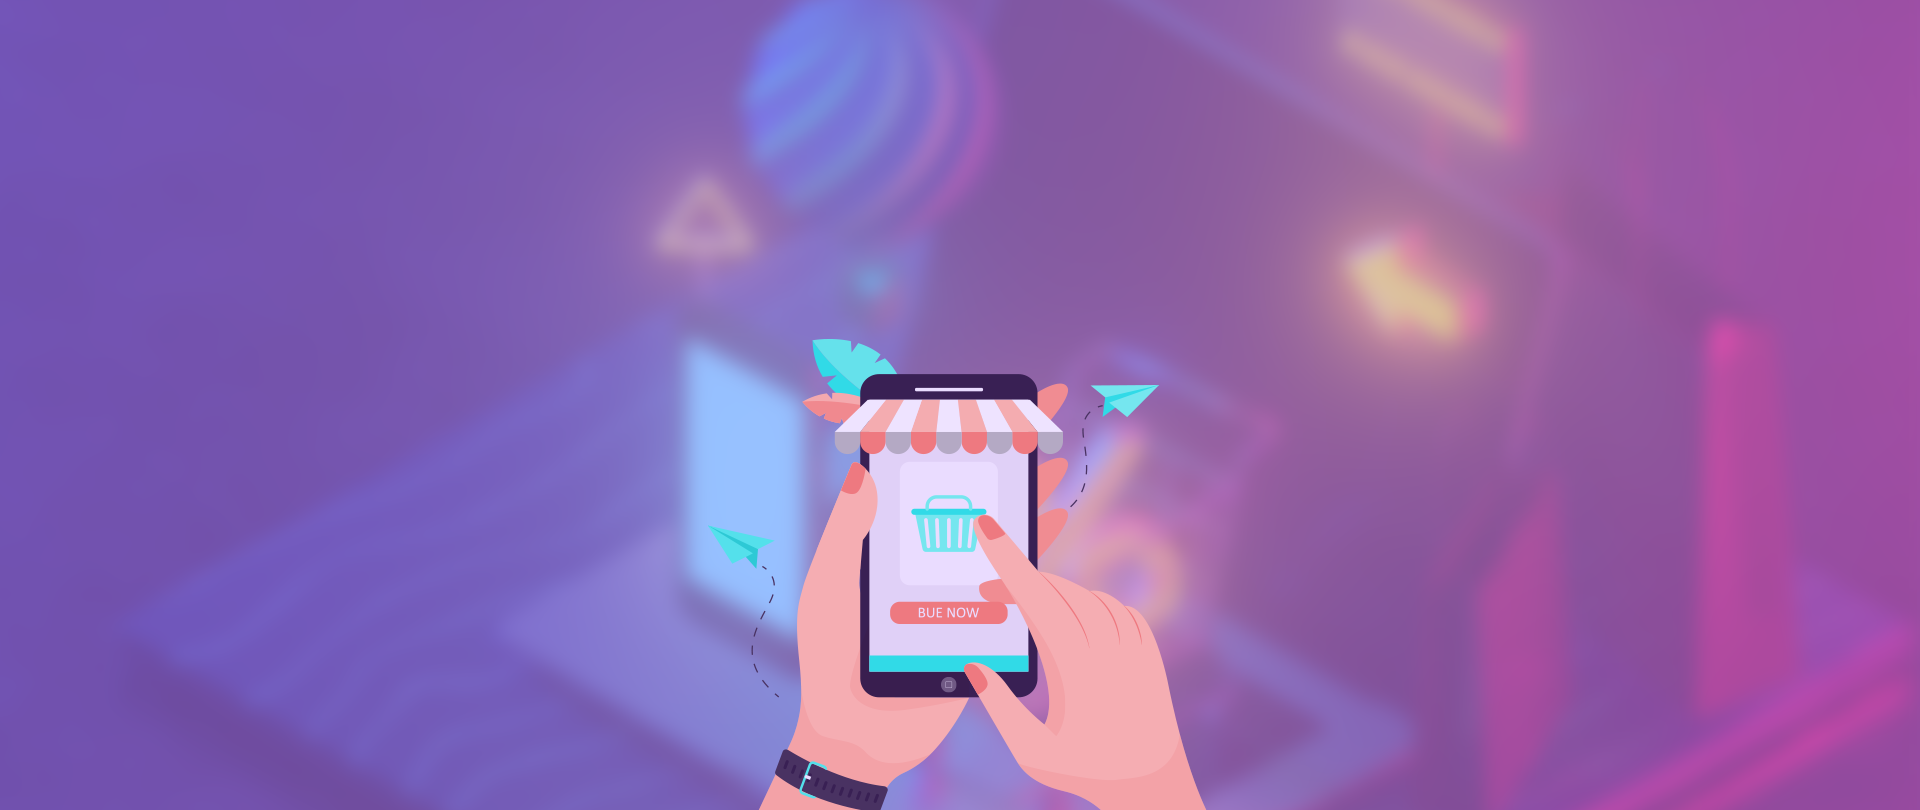
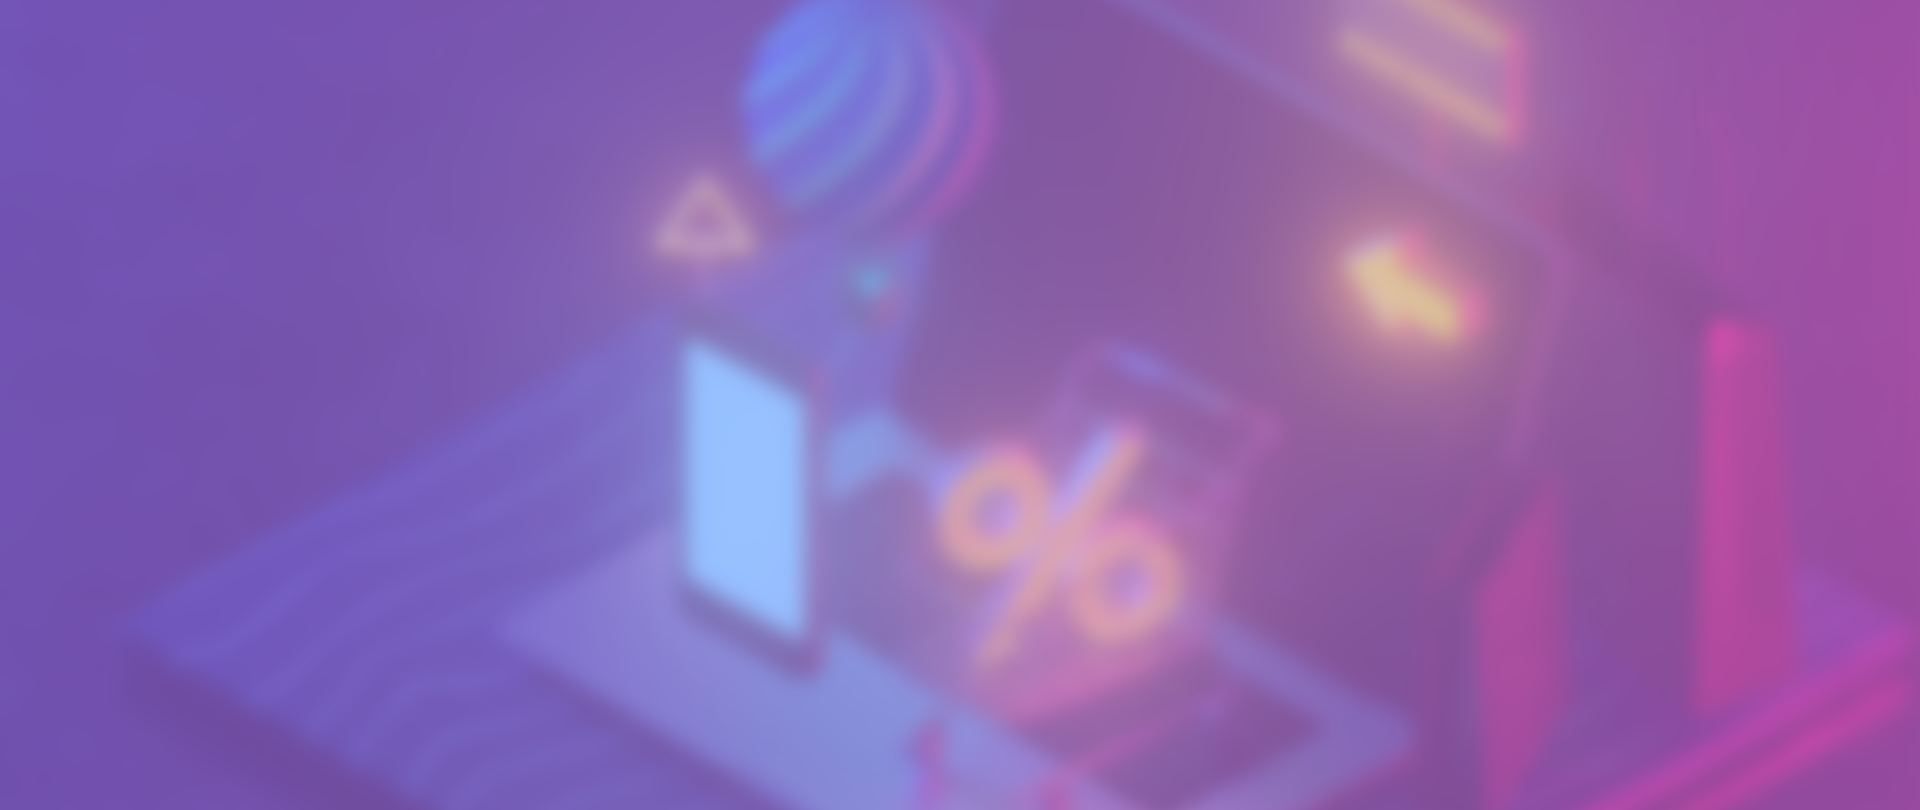
finalizado estilos

Changed region(s): [[0.375, 0.4012, 0.625, 1.0]]

diff --git a/src/styles.tsx b/src/styles.tsx
@@ -1,5 +1,16 @@
-import BackgroundImage from './assets/background.png';
-
+import BackgroundImage from './assets/bg.png';
+import phoneImage from './assets/celular.png';
+const center = {
+  display: 'grid',
+  justifyContent: 'center',
+  padding: 'auto',
+  paddingTop: '2rem'
+}
+const imagePosition = {
+  backgroundRepeat: 'no-repeat',
+  backgroundSize: 'auto auto',
+  backgroundPosition:' center center',
+}
 export const styles = {
   container: {
     width:'100%',
@@ -10,17 +21,21 @@ export const styles = {
   },
   background:{
     width:'100%',
-    height: '50rem',
+    height: '100%',
     backgroundImage:`url(${BackgroundImage})`,
-    backgroundRepeat: 'no-repeat',
-    backgroundSize: 'auto auto',
-    backgroundPosition:' center center',
+    ...imagePosition,
+    
+  },
+  ilustrationPhone:{
+    ...center,
+    width:'100%',
+    height: '25em',
+    backgroundImage:`url(${phoneImage})`,
+    ...imagePosition,
+    marginTop:'1.5em',
   },
   description: {
-    display: 'grid',
-    justifyContent: 'center',
-    padding: 'auto',
-    paddingTop: '2rem',
+    ...center,
   },
   logo:{
     width: '100%',
@@ -28,12 +43,9 @@ export const styles = {
     paddingRight: 'auto',
   },
   form:{
-    width:'30%',
+    width:'50%',
     height: '50%',
     marginRight: 'auto' ,
     marginLeft: 'auto' ,
   }
 }
-
-
-

diff --git a/src/components/form/index.tsx b/src/components/form/index.tsx
@@ -1,20 +1,22 @@
 import React from 'react';
 import { Button } from '../button';
 import { Input } from '../input';
+import { Select } from '../select';
+import { styles } from './styles';
 
 export function Form (){
   return (
-    <div>
+    <div style={styles.container}>
       <form>
-        <Input text='Nome' id="nome" type="text" ></Input>
+        <Input text='Nome' id="nome" type="text" maxLength={60}></Input>
         <Input text='E-mail' id="email" type="text"></Input>
-        <Input text='WhatsApp' id="contato" type="tel"></Input> 
+        <Input text='WhatsApp' id="contato" type="tel"></Input>
 
-        <Input 
+        <Select 
           text='Eu autorizo um consultor da Smile entrar em contato via WhatsApp'
-          id="authorizate"
-          type="checkbox">
-        </Input>
+          id='authorizate'
+          type='checkbox'>
+        </Select>
 
         
       </form>

diff --git a/src/components/select/styles.tsx b/src/components/select/styles.tsx
@@ -1,0 +1,35 @@
+export const styles = {
+  container: {
+    width: '100%',
+    marginTop:'1em', 
+  },
+  circleInput:{
+    margin: 'auto',
+    marginRight: '0.5em',
+    overflow:'hidden',
+    borderRadius: '50px',
+    width: '20px',
+    height: '20px',
+    marign:'1em', 
+  },
+  input:{
+    display: 'flex',
+    width: '20px',
+    height: '20px',
+    backgroundColor: '#391e4f', 
+  },
+  label:{
+    width: '100%',
+    alignItems: 'center',
+    padding: '0.5rem',
+    fontSize: '0.8em',
+  },
+  labelText:{
+
+    marginRight: 'auto',
+    padding: '0.5rem',
+    color: '#fff',
+    fontSize: '0.8em',
+
+  }
+}

diff --git a/src/components/select/index.tsx b/src/components/select/index.tsx
@@ -1,0 +1,20 @@
+import React from 'react';
+import { styles } from './styles'
+
+interface IInputProps {
+  id:string,
+  text:string,
+}
+
+export function Select({id, text, ...rest}:IInputProps & React.InputHTMLAttributes<HTMLInputElement> ){
+  return (
+    <div style={styles.container}>   
+      <label style={{ display:'flex', flexDirection: 'row'}} htmlFor={id}>
+        <div style={styles.circleInput}>
+          <input style={styles.input} id={id} {...rest} ></input>
+        </div>
+        <p style={{...styles.labelText, textAlign: 'center'}}>{text}</p>
+      </label>
+    </div>
+  )
+}

diff --git a/src/components/input/styles.tsx b/src/components/input/styles.tsx
@@ -6,15 +6,19 @@ export const styles = {
     marginTop: '1rem',
   },
   labelText:{
+    fontSize: '11pt',
     color: '#fff',
     margin:0,
   },
   input:{
     margin: '0.5em',
+    paddingLeft: '1em',
+    paddingRight: '1em',
+    fontSize: '11pt',
     color: '#fff',
     width: '20em',
-    height: '2em',
-    border: '1px solid #fff',
+    height: '3em',
+    border: '2px solid #fff',
     borderRadius:'25px',
     background: '#391e4f',
   }

diff --git a/src/index.css b/src/index.css
@@ -6,6 +6,10 @@ body {
   -webkit-font-smoothing: antialiased;
   -moz-osx-font-smoothing: grayscale;
 }
+input {
+  margin: 0;
+}
+
 
 code {
   font-family: source-code-pro, Menlo, Monaco, Consolas, 'Courier New',
@@ -26,5 +30,10 @@ code {
   font-family: "Montserrat-Light";
   src: local("Montserrat-Light"),
     url('./assets/fonts/Montserrat-Light.ttf') format("truetype");
+}
+
+p {
+  font-family:'Montserrat-Medium';
+  margin: 0;
 }
 

diff --git a/src/components/button/styles.tsx b/src/components/button/styles.tsx
@@ -1,0 +1,20 @@
+export const styles = {
+  container:{
+    display:  'flex',
+    marginTop: '1em', 
+    paddingBottom: '1em', 
+    width: '100%',
+    justifyContent: 'center',
+  },
+  button:{
+    width: '10em',
+    margin: 'auto',
+    padding: '0.5em',
+    borderRadius: '25px',
+    fontFamily: 'Montserrat-Bold',
+    fontSize: '13pt',
+    color: '#391e4f',
+    backgroundColor:'#31dae7',
+    background:'#31dae7',
+  }
+}

diff --git a/src/components/button/index.tsx b/src/components/button/index.tsx
@@ -1,9 +1,10 @@
 import React from 'react';
+import { styles } from './styles';
 
 export function Button ({...rest}:React.ButtonHTMLAttributes<HTMLButtonElement>) {
   return (
-    <div>
-      <button {...rest}>Enviar</button>
+    <div style={styles.container}>
+      <button style={{...styles.button, textTransform: 'uppercase',}}  {...rest}>Enviar</button>
     </div>
   )
 }

diff --git a/src/App.tsx b/src/App.tsx
@@ -15,8 +15,8 @@ export default function App() {
         <div  style={styles.description}>
           
           <Logo style={styles.logo}></Logo> 
-
           <Frase></Frase> 
+          <div style={styles.ilustrationPhone}/>
         </div>
 
       </div>
